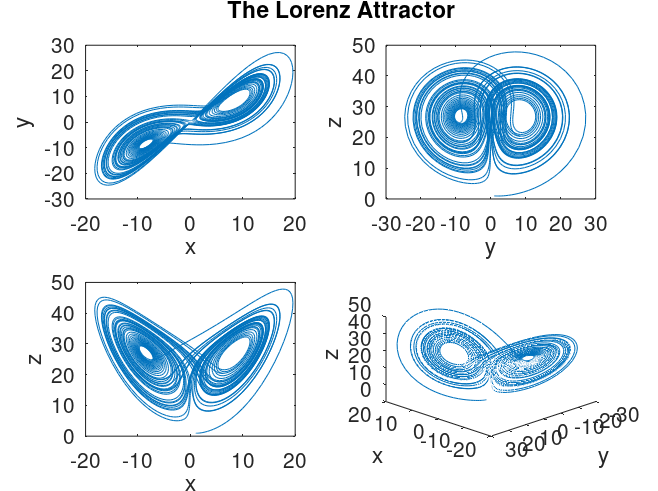
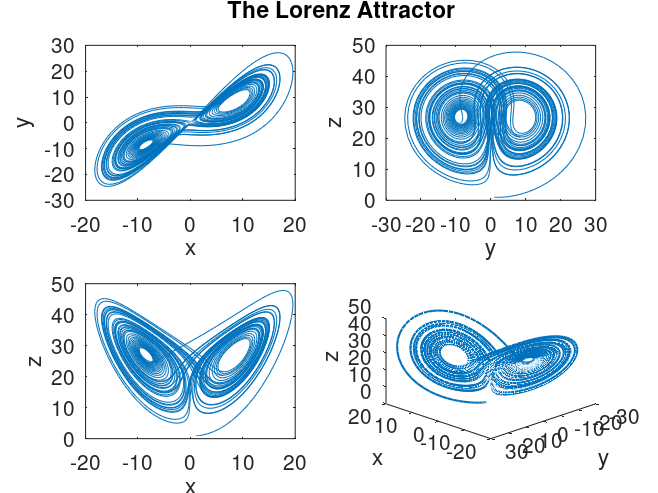
Implemented Python Lorenz system plotting.

diff --git a/lorenz/lorenz.py b/lorenz/lorenz.py
@@ -84,15 +84,51 @@ X = sol.y # get state variable attribute from solution object
 # Display various projections of the solution curve
 #=============================================================================
 
-###
 # Note that, due to the chaotic nature of the Lorenz system, the numerical
 # solutions from MATLAB and Python are expected to be slightly different.
-print(T)
-print(X[0])
-print(X[1])
-print(X[2])
-fig = plt.figure()
-ax = fig.add_subplot(111, projection='3d')
-ax.plot(X[0], X[1], X[2])
-plt.show()
-input("...")
+
+fig = plt.figure() # create a new figure object and store handle
+
+# Show xy-projection
+plt.subplot(2, 2, 1) # target first (NW) tile in a 2x2 layout
+plt.plot(X[:][0], X[:][1], linewidth=0.5) # plot y versus x
+plt.xlabel("x")
+plt.ylabel("y")
+
+# Show xz-projection
+plt.subplot(2, 2, 3) # target third (SW) tile in a 2x2 layout
+plt.plot(X[:][0], X[:][2], linewidth=0.5) # plot z versus x
+plt.xlabel("x")
+plt.ylabel("z")
+
+# Show yz-projection
+plt.subplot(2, 2, 2) # target second (NE) tile in a 2x2 layout
+plt.plot(X[:][1], X[:][2], linewidth=0.5) # plot z versus y
+plt.xlabel("y")
+plt.ylabel("z")
+
+# Set up axes for oblique projection
+ax = fig.add_subplot(2, 2, 4, projection="3d") # 3D axes in fourth (SE) tile
+ax.xaxis.pane.fill = False # remove fill colors from axis planes
+ax.yaxis.pane.fill = False
+ax.zaxis.pane.fill = False
+ax.xaxis.pane.set_edgecolor("w") # set axis plane edge colors to white
+ax.yaxis.pane.set_edgecolor("w")
+ax.zaxis.pane.set_edgecolor("w")
+ax.grid(False) # remove grid lines from axis planes
+
+# Generate 3D plot for oblique projection
+ax.plot3D(X[:][0], X[:][1], X[:][2], linewidth=1) # plot coordinates on 3D axes
+ax.set_xlabel("x")
+ax.set_ylabel("y")
+ax.set_zlabel("z")
+ax.view_init(30, 135) # set view angle elevation and azimuth (respectively)
+
+# Add a title to the window
+fig.suptitle("The Lorenz Attractor")
+
+# Display the figure window
+fig.tight_layout() # automatically adjust subfigure margins to fit all text
+fig.show() # show the figure
+
+

diff --git a/lorenz/lorenz.m b/lorenz/lorenz.m
@@ -91,32 +91,43 @@ figure % create a new figure window
 
 % Show xy-projection
 subplot(2, 2, 1) % target first (NW) tile in a 2x2 layout
-plot(X(:,1), X(:,2)) % plot y versus x
+plot(X(:,1), X(:,2), "LineWidth", 0.5) % plot y versus x
 xlabel("x")
 ylabel("y")
 
 % Show xz-projection
 subplot(2, 2, 3) % target third (SW) tile in a 2x2 layout
-plot(X(:,1), X(:,3)) % plot z versus x
+plot(X(:,1), X(:,3), "LineWidth", 0.5) % plot z versus x
 xlabel("x")
 ylabel("z")
 
 % Show yz-projection
 subplot(2, 2, 2) % target second (NE) tile in a 2x2 layout
-plot(X(:,2), X(:,3)) % plot z versus y
+plot(X(:,2), X(:,3), "LineWidth", 0.5) % plot z versus y
 xlabel("y")
 ylabel("z")
 
-% Show oblique projection
+% Set up axes for oblique projection
 subplot(2, 2, 4) % target fourth (SE) tile in a 2x2 layout
-plot3(X(:,1), X(:,2), X(:,3)) % plot 3D coordinates
+
+% In the Python version of this script, additional lines are required to
+% remove the default gray planes and grid lines included in 3D plots.
+% MATLAB does not automatically include these.
+
+
+
+
+% Generate 3D plot for oblique projection
+plot3(X(:,1), X(:,2), X(:,3), "LineWidth", 1) % plot 3D coordinates
 xlabel("x")
 ylabel("y")
 zlabel("z")
-view([225, 30]) % set view angle azimuth and elevation
+view([225, 30]) % set view angle azimuth and elevation (respectively)
 
 % Add a title to an empty window
 axes("visible", "off", "title", "The Lorenz Attractor")
+
+% MATLAB will automatically display the resulting figure.
 
 % Note that, as of MATLAB R2018b, a subplot grid can be more easily titled by
 % using the "sgtitle" function. This approach will work for older versions,
